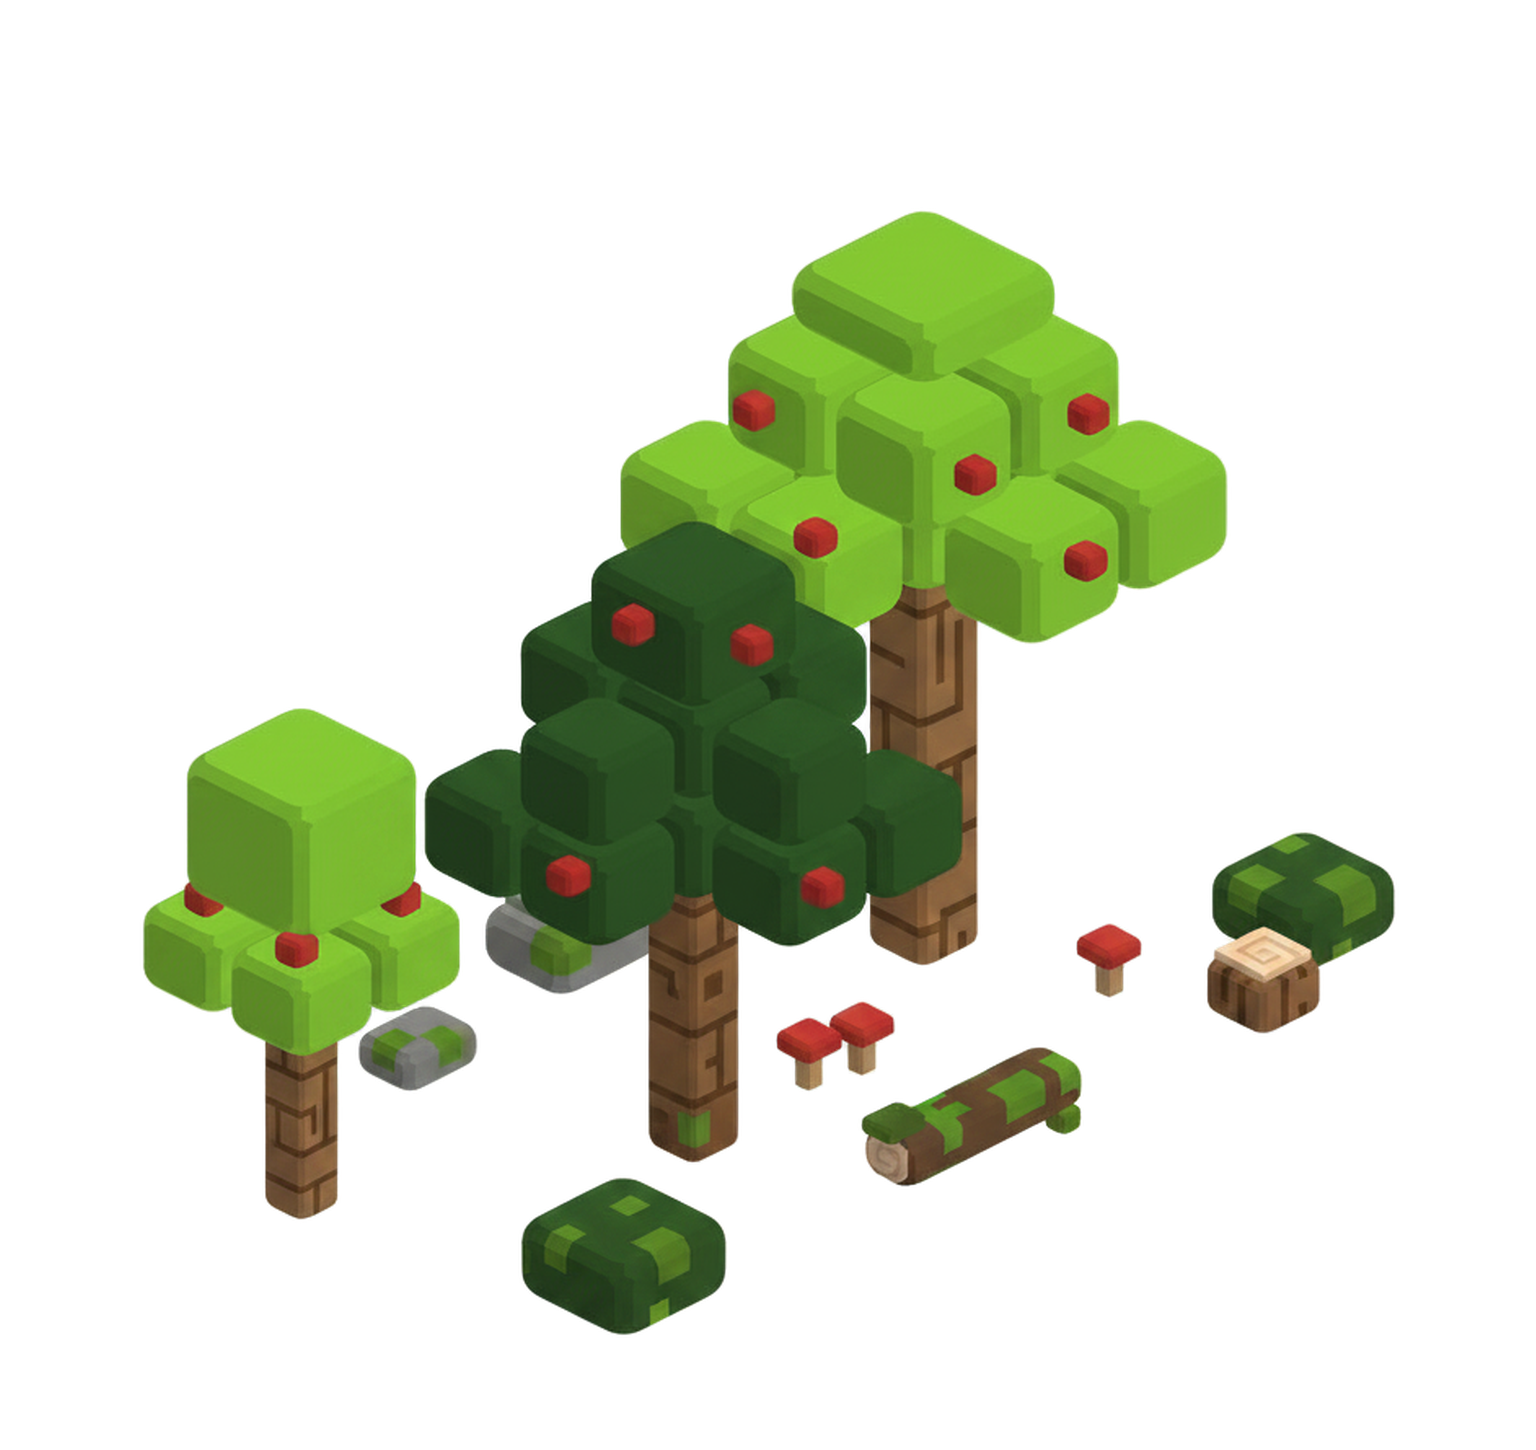
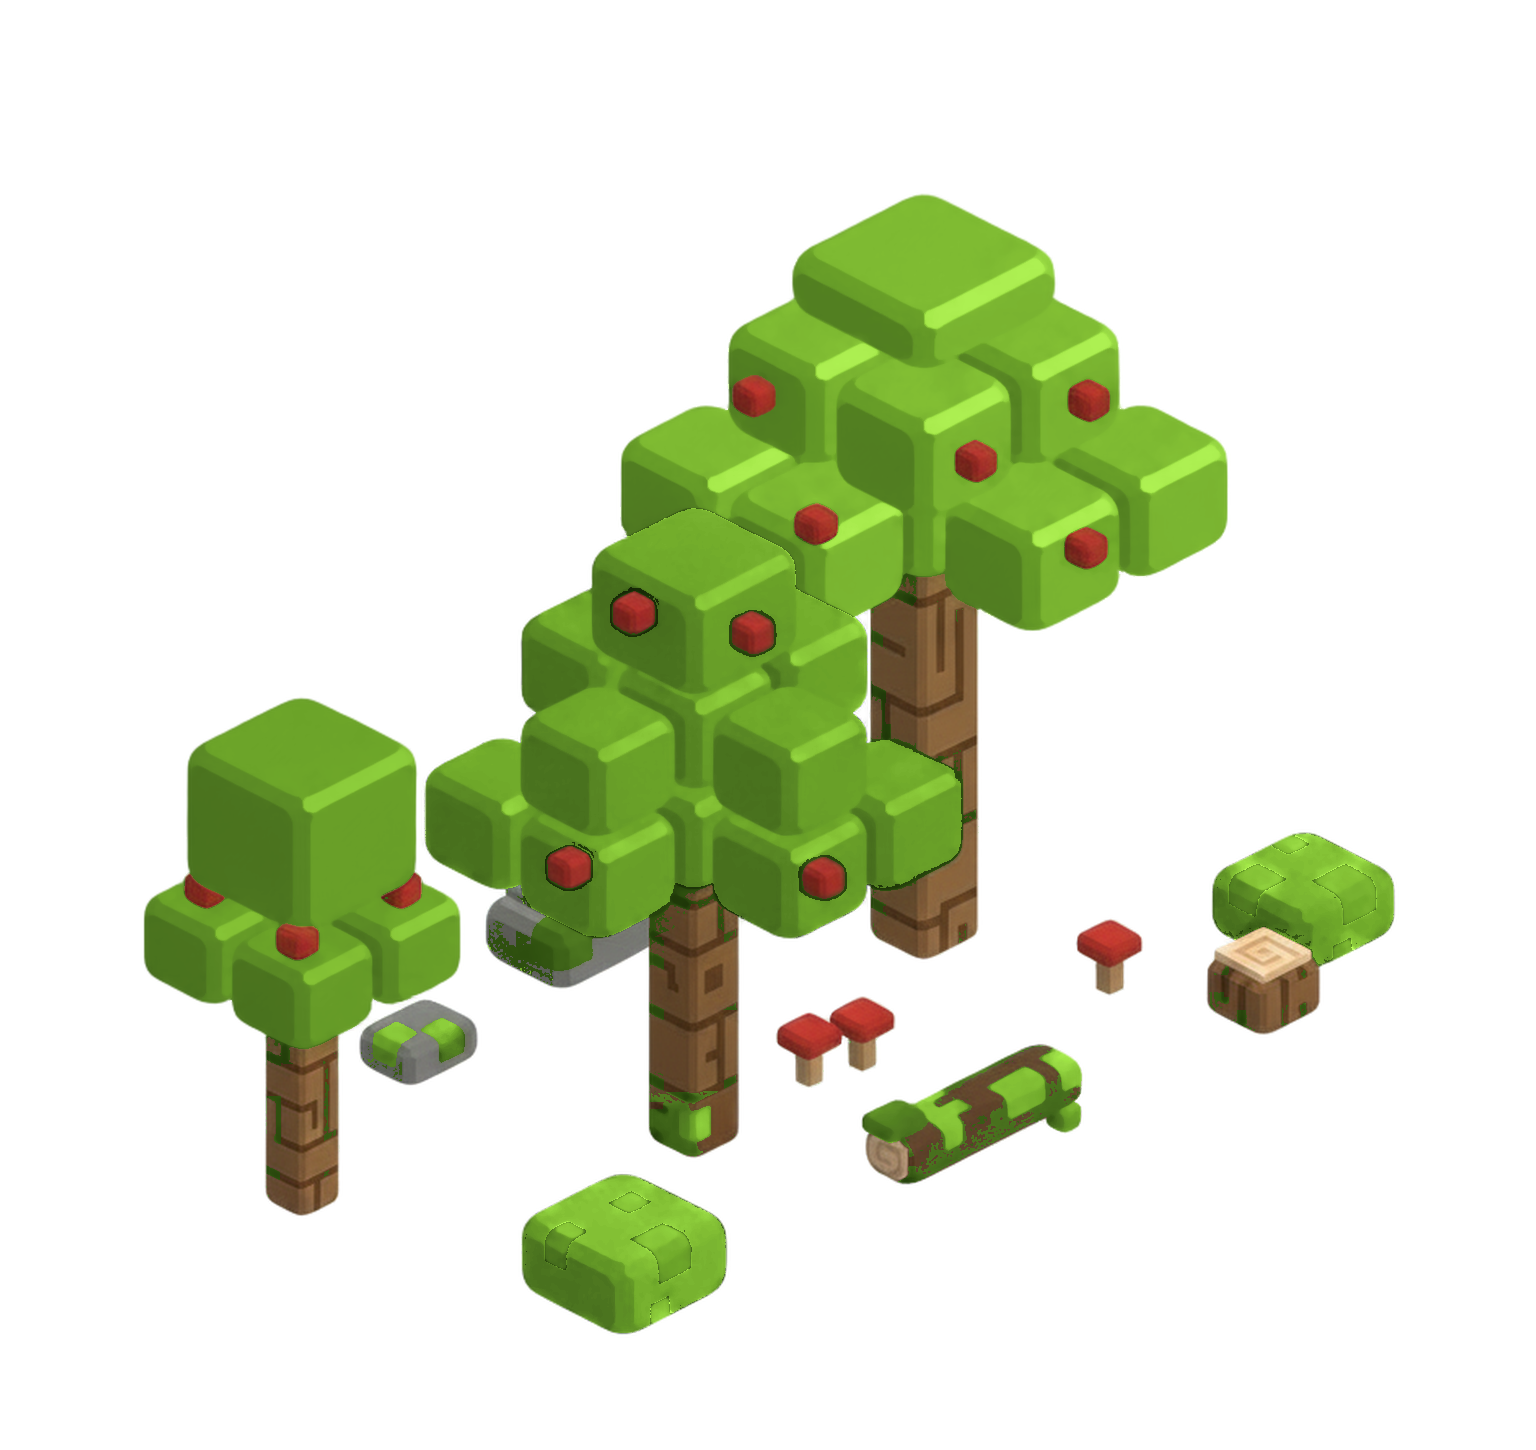
feat(sprites): improve assets

diff --git a/artifacts/paint/tree_leaves.py b/artifacts/paint/tree_leaves.py
@@ -1,22 +1,36 @@
 #!/usr/bin/env python3
-"""Give every tree's leaves the tone and shading of the bush.
+"""Give every canopy the tone and shading of the bush.
 
 The bush (`bush/block.png`) is the reference: its leaf pixels give three tones (shaded
 side, lit top, bevel highlight) and, for every brightness, the hue and saturation the bush
-shows there. Each tree's own tones are found the same way and its brightness is bent,
+shows there. Each canopy's own tones are found the same way and its brightness is bent,
 linearly, so its shaded side and lit top land on the bush's; the colour then comes from
 the bush's table. A full histogram match was tried first and turned the repaint's grain
 into speckle, which is why the mapping is a straight line and the brightness is
 median-filtered. Fruit, trunk and bark are not green, so they are left alone.
+
+A grove holds several canopies at once, and the model draws its conifer darker than its
+broadleaves, so the bend is worked out per canopy instead of per file: the leaf mask is cut
+into connected pieces and each piece into a light and a dark hue family when it holds both.
+Every canopy then lands on the bush's tones and the grove matches the single trees.
+
+The edit model also likes to draw a dark line around a leaf block. Those pixels are not
+leaf-green, so the mask misses them and they would survive as black outlines on an asset
+whose leaves have all moved: `inked` picks them up by the leaves they sit against and bends
+them with the canopy, which leaves them as the deep creases the style wants.
 
 Usage: tree_leaves.py <work> <assets-src/assets>"""
 import os, sys
 import numpy as np
 from PIL import Image, ImageFilter
 
-PICK = {"tree/block": 1, "tree/block_2": 2, "tree/block_3": 2, "tree/block_4": 1,
-        "tree/block_5": 1, "tree/block_6": 2, "tree/block_7": 0, "tree/block_8": 2}
+PICK = {"tree/block": 2, "tree/block_2": 1, "tree/block_3": 0, "tree/block_4": 2,
+        "tree/block_5": 1, "tree/block_6": 1, "tree/block_8": 2,
+        "tree/block_grove_1x2": 1, "tree/block_grove_2x1": 2}
 BINS = 64
+MIN_GROUP = 400        # leaf pixels a piece needs before it is bent on its own
+HUE_SPLIT = 0.012       # how far apart two greens must sit to count as two canopies
+MIN_SHARE = 0.1         # the smaller green must be this much of the piece to count as one
 
 
 def hsv(rgb):
@@ -53,10 +67,95 @@ def face_tones(v):
     return np.sort(tones)
 
 
+def inked(leaf, v, alpha):
+    """The dark lines the model sometimes draws between leaf blocks, and around them.
+
+    They are not leaf-green, so the mask misses them, and left alone they stay as black
+    outlines while everything around them is bent to the bush's tones. Closing the leaf
+    mask finds the pixels they enclose; bent with the leaves they read as deep creases.
+    """
+    plane = Image.fromarray((leaf * 255).astype(np.uint8), "L")
+    near = np.asarray(plane.filter(ImageFilter.MaxFilter(31))).astype(bool)
+    return near & ~leaf & (v < 0.36) & (alpha > 0.5)
+
+
 def calm(v):
     """Median-filter a brightness plane, to drop the repaint's grain before bending it."""
     plane = Image.fromarray((np.clip(v, 0, 1) * 255).round().astype(np.uint8), "L")
-    return np.asarray(plane.filter(ImageFilter.MedianFilter(5))).astype(float) / 255
+    return np.asarray(plane.filter(ImageFilter.MedianFilter(7))).astype(float) / 255
+
+
+def pieces(mask):
+    """Label the mask's connected pieces (4-neighbour), run by run with a union-find."""
+    parent = [0]
+
+    def find(a):
+        while parent[a] != a:
+            parent[a] = parent[parent[a]]
+            a = parent[a]
+        return a
+
+    def union(a, b):
+        a, b = find(a), find(b)
+        if a != b:
+            parent[max(a, b)] = min(a, b)
+
+    out = np.zeros(mask.shape, np.int32)
+    previous = []
+    for y in range(mask.shape[0]):
+        edges = np.diff(np.concatenate(([0], mask[y].view(np.int8), [0])))
+        current = []
+        for start, end in zip(np.flatnonzero(edges == 1), np.flatnonzero(edges == -1)):
+            touching = [lab for (s, e, lab) in previous if s < end and start < e]
+            if touching:
+                lab = min(find(x) for x in touching)
+                for x in touching:
+                    union(lab, x)
+            else:
+                lab = len(parent)
+                parent.append(lab)
+            out[y, start:end] = lab
+            current.append((start, end, lab))
+        previous = current
+    return np.array([find(i) for i in range(len(parent))], np.int32)[out]
+
+
+def hue_families(hues):
+    """One mask, or two when the piece holds a light and a dark green side by side."""
+    centres = np.array([np.percentile(hues, 20), np.percentile(hues, 80)])
+    for _ in range(30):
+        near = np.abs(hues[:, None] - centres[None, :]).argmin(axis=1)
+        centres = np.array([hues[near == k].mean() if (near == k).any() else centres[k]
+                            for k in range(2)])
+    if abs(centres[1] - centres[0]) < HUE_SPLIT:
+        return [np.ones(hues.shape, bool)]
+    cut = centres.mean()
+    return [hues <= cut, hues > cut]
+
+
+def canopies(leaf, solid, h):
+    """The leaf mask cut into the pieces that are bent one by one."""
+    labels = pieces(leaf)
+    out = []
+    for label in np.unique(labels[labels > 0]):
+        piece = labels == label
+        if (piece & solid).sum() < MIN_GROUP:
+            continue
+        families = hue_families(h[piece])
+        masks = []
+        for family in families:
+            mask = np.zeros(piece.shape, bool)
+            mask[piece] = family
+            masks.append(mask)
+        # A split is two canopies only when both sides are a real share of the piece;
+        # otherwise it is the crease shadow being told apart from the leaves, and bending
+        # that on its own turns the creases into speckle.
+        if len(masks) == 2 and min((m & solid).sum() for m in masks) < MIN_SHARE * (piece & solid).sum():
+            masks = [piece]
+        for mask in masks:
+            if (mask & solid).sum() >= MIN_GROUP:
+                out.append(mask)
+    return out
 
 
 def bush_reference(assets):
@@ -77,26 +176,38 @@ def bush_reference(assets):
     return values, centers, hue, sat
 
 
+def relight(im, values, centers, hue, sat):
+    """The asset with every canopy's leaves bent onto the bush's tones."""
+    leaf, h, s, v = leaf_mask(im)
+    solid = leaf & (im[:, :, 3] > 0.95)
+    paint = leaf | inked(leaf, v, im[:, :, 3])
+    v = np.where(paint, calm(v), v)
+    bent = v.copy()
+    tones = []
+    for mask in canopies(paint, solid, h):
+        own = face_tones(v[mask & solid])
+        # Bend the brightness so the canopy's shaded side and lit top land on the bush's.
+        # The bush's third, brightest tone is only its bevel highlights, not a face, so a
+        # canopy's top goes to the bush's middle tone and the highlights ride above it.
+        slope = (values[1] - values[0]) / max(own[2] - own[0], 1e-6)
+        bent[mask] = np.clip(values[0] + (v[mask] - own[0]) * slope, 0, 1)
+        tones.append(own.round(2))
+    rgb = unhsv(np.interp(bent, centers, hue), np.interp(bent, centers, sat), bent)
+    rgb = np.where(paint[:, :, None], rgb, im[:, :, :3])
+    return np.dstack([rgb, im[:, :, 3]]), tones
+
+
 def main():
     work, assets = sys.argv[1], sys.argv[2]
     values, centers, hue, sat = bush_reference(assets)
     for name, pick in PICK.items():
-        im = load(os.path.join(work, f"{name.replace('/', '_')}_placed{pick}.png"))
-        leaf, h, s, v = leaf_mask(im)
-        solid = leaf & (im[:, :, 3] > 0.95)
-        v = np.where(leaf, calm(v), v)
-        own = face_tones(v[solid])
-        # Bend the brightness so the tree's shaded side and lit top land on the bush's.
-        # The bush's third, brightest tone is only its bevel highlights, not a face, so a
-        # tree's top goes to the bush's middle tone and the highlights ride above it.
-        slope = (values[1] - values[0]) / max(own[2] - own[0], 1e-6)
-        v2 = np.clip(values[0] + (v - own[0]) * slope, 0, 1)
-        rgb = unhsv(np.interp(v2, centers, hue), np.interp(v2, centers, sat), v2)
-        rgb = np.where(leaf[:, :, None], rgb, im[:, :, :3])
-        out = np.dstack([rgb, im[:, :, 3]])
+        source = os.path.join(work, f"{name.replace('/', '_')}_placed{pick}.png")
+        if not os.path.exists(source):      # an asset kept from an earlier round
+            source = os.path.join(assets, name + ".png")
+        out, tones = relight(load(source), values, centers, hue, sat)
         Image.fromarray((np.clip(out, 0, 1) * 255).round().astype(np.uint8), "RGBA").save(
             os.path.join(assets, name + ".png"), optimize=True)
-        print(name, "tones", own.round(2), "->", values.round(2))
+        print(name, "canopies", tones, "->", values.round(2))
 
 
 if __name__ == "__main__":

diff --git a/artifacts/paint/leaf_paint.py b/artifacts/paint/leaf_paint.py
@@ -1,0 +1,103 @@
+#!/usr/bin/env python3
+"""Repaint the leafy assets with block_7's lighting: flat faces and a bright bevel.
+
+Same pipeline as tree_paint.py, but the style reference is the game's own cypress and bush
+instead of the village scene, and the prompt spells out the four tones that make that look:
+bright top, mid right face, shaded left face and a thin highlight along the rounded top edges.
+A grove has no drawing beside it, so its current PNG is the shape and the base to fit against.
+
+Usage: leaf_paint.py <assets-src/assets> <work> <name>...   (name like tree/block_3)
+"""
+import concurrent.futures, os, re, sys
+import cairosvg
+from PIL import Image
+from falrun import run, data_uri
+from repaint import (MODEL, MATTE, WHAT, letterbox, decontaminate, fit, ink_box,
+                     silhouette_score, drawing_tiles, template_canvas, spend, _cost)
+
+REF = os.path.join(os.path.dirname(os.path.abspath(__file__)), "ref_block7.png")
+VARIANTS = 3
+
+WHAT = dict(WHAT)
+WHAT["tree/block_grove_1x2"] = WHAT["tree/block_grove_2x1"] = (
+    "a small grove of three trees standing apart on open ground, with a fallen mossy log, a "
+    "cut stump, low bushes, grey rocks and a few small red toadstools between them")
+
+PROMPT = (
+    "The FIRST image is the exact asset to keep. The SECOND image shows two finished assets "
+    "from the same game, a cypress tree and a bush: they are the lighting and finish to copy.\n"
+    "Redraw the first image as a finished game asset: {what}, in chunky low-poly voxel art.\n"
+    "LIGHTING, the whole point of this redraw: the sun is on the UPPER RIGHT, and every leaf "
+    "block is a smooth rounded cube with FLAT cel-shaded faces in four clear steps, exactly "
+    "like the second image. Its top face is the brightest. Its right face is clearly darker "
+    "than the top. Its left face is darker still, in plain shade. And a thin bright highlight "
+    "runs along the rounded top edges where they catch the light. The gaps between blocks are "
+    "dark, narrow and crisp, so each block reads apart from the next. Draw NO outlines: no black "
+    "line, no ink line and no dark border around a block or around the asset. A block is told "
+    "apart from the next one only by its own shading, exactly as in the second image.\n"
+    "LEAVES: one single plain leaf-green colour for the whole canopy, the same green on every "
+    "tree. The only change of tone is the light described above: no second green, no dark or "
+    "pale blotches, no spots, no holes, no moss, no texture, no grain and no gradient inside a "
+    "face.{fruit}\n"
+    "TRUNK: brown wood with simple bark planks, lit the same way. Nothing at its foot.\n"
+    "CRITICAL: keep the silhouette, proportions, height and 2:1 isometric camera of the first "
+    "image, with every block where it is. Do NOT mirror, flip or rotate it, and do not add or "
+    "remove blocks.\n"
+    "The background must be pure flat white, with no ground, no drop shadow and no gradient. "
+    "Output a square 1:1 image."
+)
+FRUIT = {"tree/block": " Keep the few small red fruits.",
+         "tree/block_6": " Keep the few small red fruits.",
+         "tree/block_grove_1x2": " Keep the few small red berries and the red toadstools.",
+         "tree/block_grove_2x1": " Keep the few small red berries and the red toadstools."}
+
+
+def base_image(assets, name, stem):
+    """The shape to keep, on its template canvas: the drawing when there is one, else the PNG."""
+    svg_path = os.path.join(assets, name + ".svg")
+    if os.path.exists(svg_path):
+        head = open(svg_path, encoding="utf-8").read(3000)
+        head = head[: head.find(">") + 1]
+        found = re.search(r'\bdata-tiles="([^"]*)"', head)
+        canvas = template_canvas(drawing_tiles(head, found.group(1) if found else None))
+        cairosvg.svg2png(url=svg_path, write_to=f"{stem}_base.png", output_width=canvas[0])
+        return Image.open(f"{stem}_base.png").convert("RGBA"), canvas
+    png = Image.open(os.path.join(assets, name + ".png")).convert("RGBA")
+    return png, png.size
+
+
+def paint(assets, work, name):
+    stem = os.path.join(work, name.replace("/", "_"))
+    base, canvas = base_image(assets, name, stem)
+    letterbox(base).save(f"{stem}_in.png")
+    files = run(MODEL, {"prompt": PROMPT.format(what=WHAT[name],
+                                                fruit=FRUIT.get(name, " No fruit and no flowers.")),
+                        "image_urls": [data_uri(f"{stem}_in.png"), data_uri(REF)],
+                        "num_images": VARIANTS, "output_format": "png", "aspect_ratio": "1:1"},
+                f"{stem}_v")
+    if not files:
+        return name, []
+    spend(MODEL, len(files))
+    scores = []
+    for i, raw in enumerate(files):
+        matted = run(MATTE, {"image_url": data_uri(raw), "output_format": "png",
+                             "operating_resolution": "1024x1024", "refine_foreground": True},
+                     f"{stem}_m{i}")
+        if not matted:
+            continue
+        spend(MATTE)
+        cut = Image.open(decontaminate(raw, matted[0], f"{stem}_cut{i}.png")).convert("RGBA")
+        if ink_box(cut) is None:
+            continue
+        fit(cut, base, canvas).save(f"{stem}_placed{i}.png")
+        scores.append((i, round(silhouette_score(Image.open(f"{stem}_placed{i}.png"), base), 3)))
+    return name, scores
+
+
+if __name__ == "__main__":
+    assets, work, names = sys.argv[1], sys.argv[2], sys.argv[3:]
+    os.makedirs(work, exist_ok=True)
+    with concurrent.futures.ThreadPoolExecutor(max_workers=5) as pool:
+        for f in concurrent.futures.as_completed([pool.submit(paint, assets, work, n) for n in names]):
+            print("RESULT", *f.result(), flush=True)
+    print(f"total spent this run: {_cost[0]:.2f} $")
